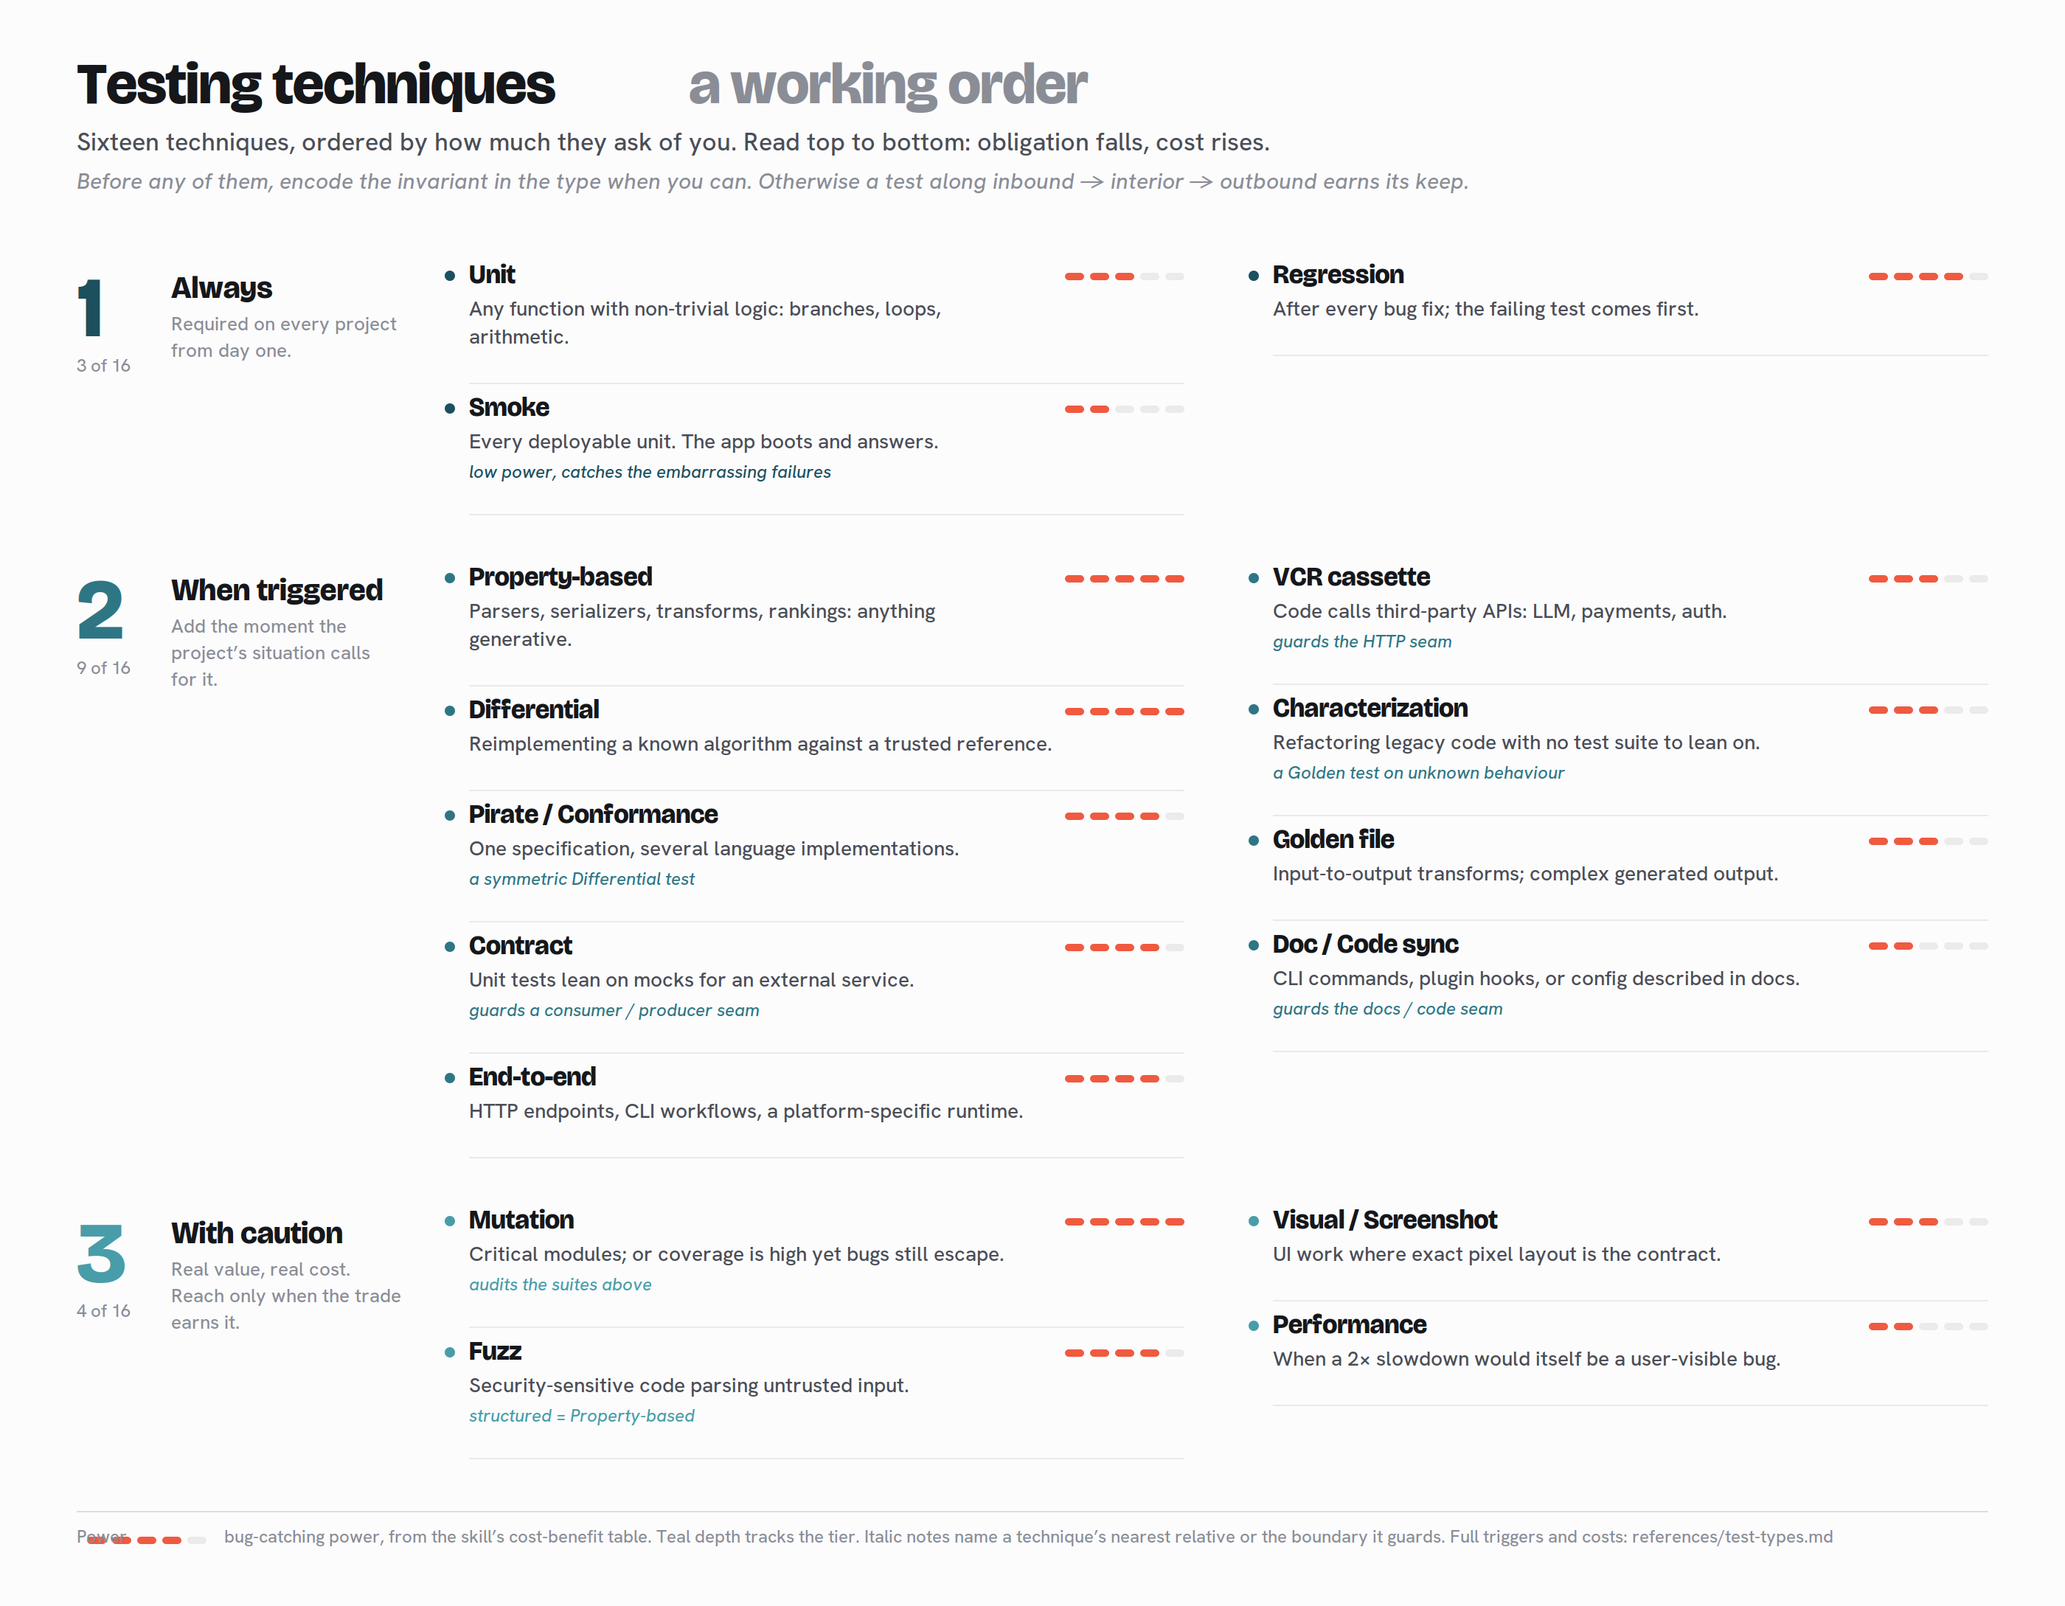
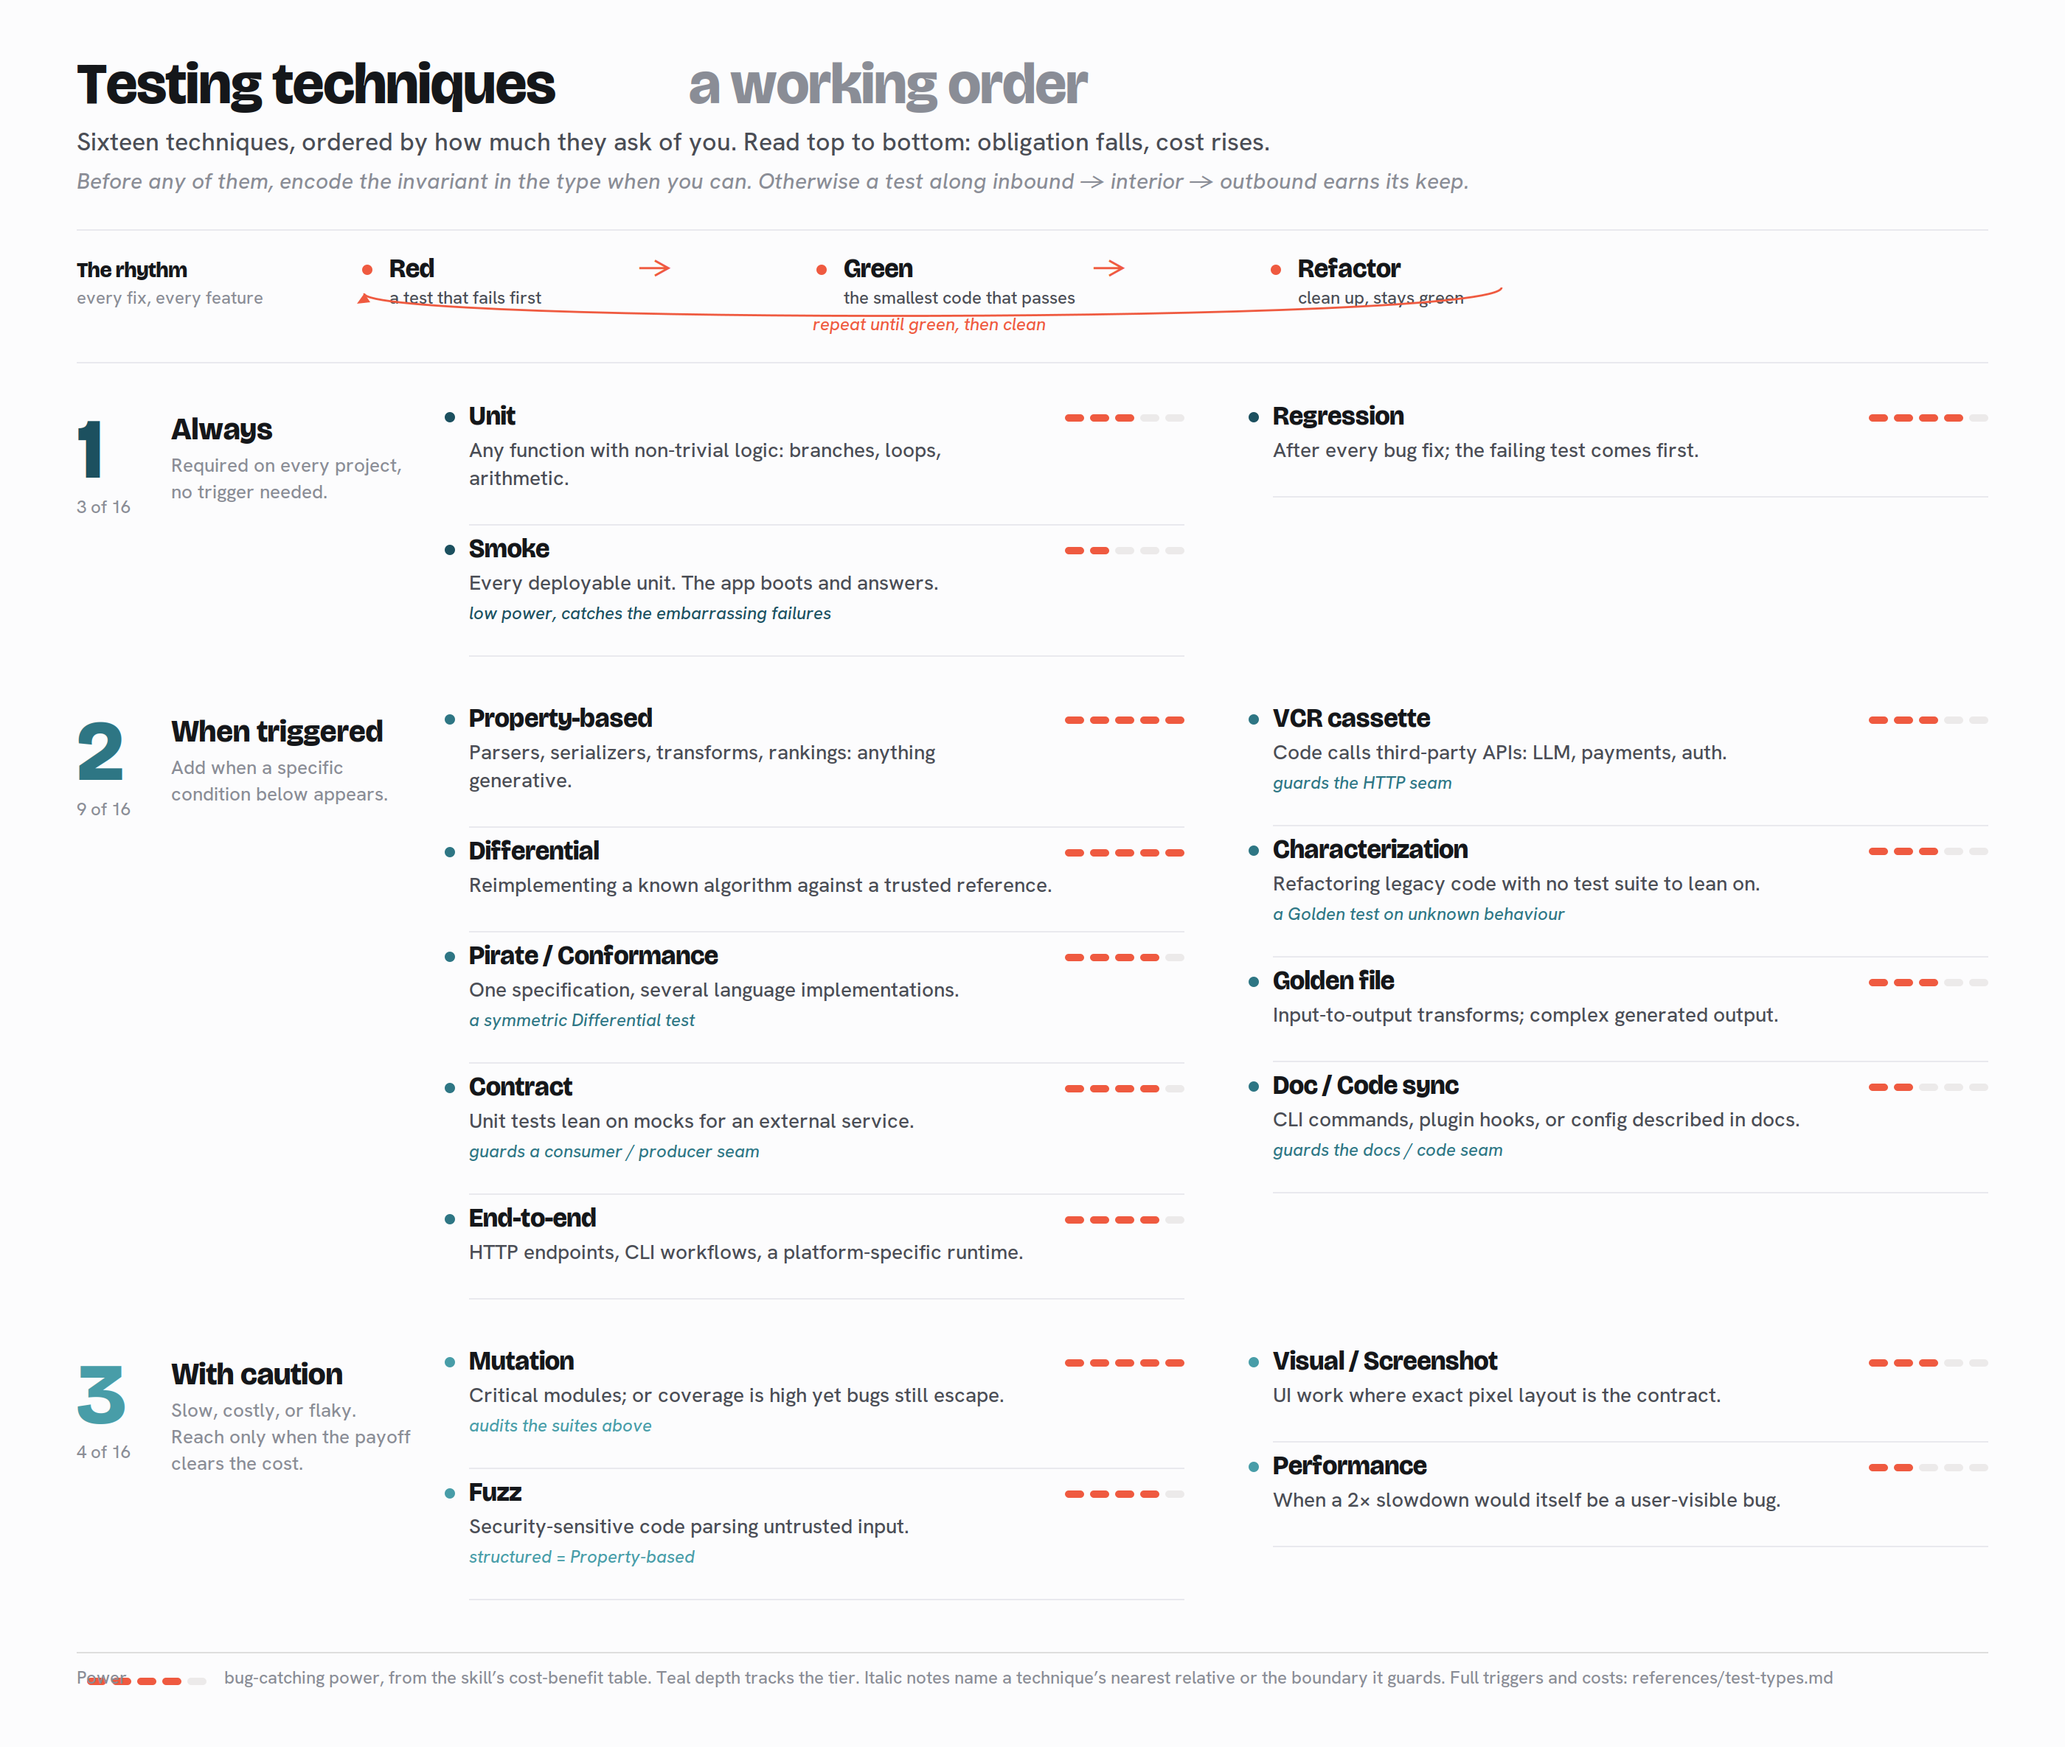
Add red-green-refactor rhythm to ledger; tighten copy via anti-slop pass
Red-green-refactor is core to the skill (SKILL.md: "Use red-green-refactor
when feasible") but the ledger only drew from the technique catalogue. Add it
as "The rhythm" — a discipline strip above the tiers, since it wraps every
technique rather than being a 17th one. Faithful to SKILL.md: Red is a test
that fails first, Green is the smallest code that passes, Refactor cleans up
while green, looping back.

Run the copy through the anti-slop-writing skill: the Tier 2 gloss now points
at the conditions below instead of "the situation calls for it"; Tier 3 names
the real costs (slow, costly, flaky) and the actual decision (payoff clears
the cost) rather than the decorative "real value, real cost" parallelism.

diff --git a/research/diagrams/generate_skill_ledger.py b/research/diagrams/generate_skill_ledger.py
@@ -62,12 +62,12 @@ SZ_TITLE   = 40
 # (VH=5, H=4, M=3, L=2). Fuzz/Performance not in that table: Fuzz=4 (its whole
 # job is finding crashes on untrusted input), Performance=2 (niche power).
 LEDGER = [
-    (1, "Always", "Required on every project from day one.", [
+    (1, "Always", "Required on every project, no trigger needed.", [
         ("Unit",       "Any function with non-trivial logic: branches, loops, arithmetic.", 3, None),
         ("Smoke",      "Every deployable unit. The app boots and answers.", 2, "low power, catches the embarrassing failures"),
         ("Regression", "After every bug fix; the failing test comes first.", 4, None),
     ]),
-    (2, "When triggered", "Add the moment the project’s situation calls for it.", [
+    (2, "When triggered", "Add when a specific condition below appears.", [
         ("Property-based",       "Parsers, serializers, transforms, rankings: anything generative.", 5, None),
         ("Differential",         "Reimplementing a known algorithm against a trusted reference.", 5, None),
         ("Pirate / Conformance", "One specification, several language implementations.", 4, "a symmetric Differential test"),
@@ -78,7 +78,7 @@ LEDGER = [
         ("Golden file",          "Input-to-output transforms; complex generated output.", 3, None),
         ("Doc / Code sync",      "CLI commands, plugin hooks, or config described in docs.", 2, "guards the docs / code seam"),
     ]),
-    (3, "With caution", "Real value, real cost. Reach only when the trade earns it.", [
+    (3, "With caution", "Slow, costly, or flaky. Reach only when the payoff clears the cost.", [
         ("Mutation",            "Critical modules; or coverage is high yet bugs still escape.", 5, "audits the suites above"),
         ("Fuzz",                "Security-sensitive code parsing untrusted input.", 4, "structured = Property-based"),
         ("Visual / Screenshot", "UI work where exact pixel layout is the contract.", 3, None),
@@ -166,7 +166,48 @@ def build():
                "earns its keep.",
                size=SZ_DECK - 2, fill=MUTED, family=TEXT, italic=True))
 
-    y = 178
+    # ---- the rhythm: red, green, refactor — the loop every tier is written in
+    # A discipline, not a 17th technique. It wraps the whole ledger, so it sits
+    # above the tiers rather than inside one.
+    p.append(line(M, 156, W - M, 156, HAIR, 1))
+    ly = 188
+    p.append(t(M, ly, "The rhythm", size=SZ_GLOSS, weight="600",
+               family=DISPLAY, fill=INK, ls_em=-0.01))
+    p.append(t(M, ly + 18, "every fix, every feature",
+               size=SZ_MICRO, fill=MUTED, family=TEXT))
+
+    phases = [
+        ("Red", "a test that fails first"),
+        ("Green", "the smallest code that passes"),
+        ("Refactor", "clean up, stays green"),
+    ]
+    pxs = [M + 212, M + 520, M + 828]
+    for (word, gloss), px in zip(phases, pxs):
+        p.append(f'<circle cx="{px-15:.1f}" cy="{ly-5:.1f}" r="3.5" '
+                 f'fill="{ACCENT}"/>')
+        p.append(t(px, ly, word, size=SZ_NAME, weight="600", family=DISPLAY,
+                   fill=INK, ls_em=-0.006))
+        p.append(t(px, ly + 18, gloss, size=SZ_MICRO, fill=BODY, family=TEXT))
+    # coral step arrows between phases
+    for i in (0, 1):
+        ax = (pxs[i] + pxs[i + 1]) / 2 + 26
+        p.append(t(ax, ly, "→", size=SZ_NAME + 2, fill=ACCENT, family=TEXT,
+                   anchor="middle"))
+    # curved return arrow: Refactor loops back to Red ("repeat")
+    rx0 = pxs[2] + 138
+    rx1 = pxs[0] - 22
+    dip = ly + 32
+    p.append(f'<path d="M {rx0:.1f},{ly+7:.1f} C {rx0:.1f},{dip:.1f} '
+             f'{rx1:.1f},{dip:.1f} {rx1+5:.1f},{ly+11:.1f}" fill="none" '
+             f'stroke="{ACCENT}" stroke-width="1.4"/>')
+    p.append(f'<path d="M {rx1+5:.1f},{ly+11:.1f} l -5,7 l 9,-1 z" '
+             f'fill="{ACCENT}"/>')
+    p.append(t((rx0 + rx1) / 2, dip + 4, "repeat until green, then clean",
+               size=SZ_MICRO, fill=ACCENT, family=TEXT, anchor="middle",
+               italic=True))
+
+    p.append(line(M, ly + 58, W - M, ly + 58, HAIR, 1))
+    y = ly + 86
 
     for tier_no, tier_name, gloss, items in LEDGER:
         tcol = TIER_INK[tier_no]
